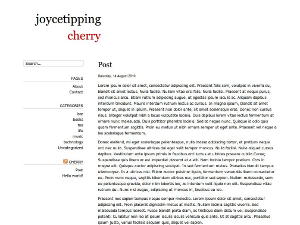
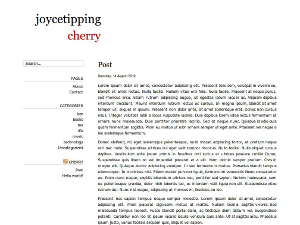
Got a better screenshot (with justified paragraphs). Updated the README. Provided a generic footer section in comments. Tweaked the style, as usual.

Changed region(s): [[0.33, 0.6222, 0.93, 0.84], [0.36, 0.3733, 0.93, 0.56], [0.39, 0.8711, 0.93, 0.9956]]

diff --git a/style.css b/style.css
@@ -22,6 +22,7 @@ MIT License
   width: 850px;
 }
 #header {
+  width: 260px;
   margin: 40px 0 60px 0;
 }
 .narrowcolumn {
@@ -230,23 +231,22 @@ ul {
 
 /*** Header **{{{*/
 #header {
-  width: 260px;
   text-align: right;
-  font: 16px/normal Georgia, Garamond, "Times New Roman", Times, serif;
   text-transform: lowercase;
 }
-#header h1 {
+#site-title, #blog-title, #site-description {
+  font: 40px/normal Georgia, Garamond, 'Times New Roman', Times, serif;
   margin: 0 0 10px 0;
-  padding: 0;
-}
-#header h1 a:hover {
-  text-decoration: underline;
+  padding:0;
 }
 #site-title a {
   color: #000;
 }
 #blog-title a, #site-description a {
   color: #c00;
+}
+#header a:hover {
+  text-decoration: underline;
 }
 /*}}}*/
 

diff --git a/footer.php b/footer.php
@@ -16,8 +16,9 @@
 <?php } ?>
 -->
 
+  <!-- Custom footer for JoyceTipping.com blogs. Replace with generic footer below for your blog. -->
   <p>
-    <a href='http://joycetipping.com/'>joycetipping.com</a> is provided under the <a href='http://creativecommons.org/licenses/by-sa/3.0/'>Creative Commons Attribution-ShareAlike</a> license.
+    <a href='http://joycetipping.com/'>joycetipping.com</a> is provided under the <a title='License' href='http://creativecommons.org/licenses/by-sa/3.0/'>Creative Commons Attribution-ShareAlike</a> license.
     <!--
     <a href="http://validator.w3.org/check?uri=referer" title="Validate the XHTML of this page.">XHTML</a>, 
     <a href="http://jigsaw.w3.org/css-validator/check/referer" title="Validate the CSS of this page.">CSS</a>.
@@ -26,12 +27,29 @@
 
   <p>
     Powered by <a href="http://wordpress.org/">WordPress</a> <?php bloginfo('version'); ?> |
-    <a href='http://github.com/joycetipping/cherry'>Cherry</a> is my version of <a href="http://www.ardamis.com/2007/06/03/apricot/">Apricot</a>, an excellent theme by <a href="http://www.ardamis.com/">Ardamis.com</a>.
+    <a href='http://github.com/joycetipping/cherry'>Cherry</a> is a custom theme by <a href='http://joycetipping.com/'>Joyce Tipping</a>.
   </p>
   
   <p><a href="<?php bloginfo('rss2_url'); ?>">Entries (RSS)</a> and <a href="<?php bloginfo('comments_rss2_url'); ?>">Comments (RSS)</a>.</p>
-    <!-- <?php echo get_num_queries(); ?> queries. <?php timer_stop(1); ?> seconds. -->
+  <!-- End custom footer -->
+
+
   
+  <!-- Generic footer.
+  <p>
+    &copy; <?php echo date('Y'); ?> <a href="<?php echo bloginfo('url'); ?>/"><?php bloginfo('name'); ?></a>. All rights reserved.
+    <a href="http://validator.w3.org/check?uri=referer" title="Validate the XHTML of this page.">XHTML</a>, 
+    <a href="http://jigsaw.w3.org/css-validator/check/referer" title="Validate the CSS of this page.">CSS</a>.
+  </p>
+
+  <p>
+    Powered by <a href="http://wordpress.org/">WordPress</a> <?php bloginfo('version'); ?> |
+    <a href='http://github.com/joycetipping/cherry'>Cherry</a> is a custom theme by <a href='http://joycetipping.com/'>Joyce Tipping</a>.
+  </p>
+  
+  <p><a href="<?php bloginfo('rss2_url'); ?>">Entries (RSS)</a> and <a href="<?php bloginfo('comments_rss2_url'); ?>">Comments (RSS)</a>.</p>
+  -->
+
 </div>
 </div>
 

diff --git a/header.php b/header.php
@@ -35,11 +35,12 @@
 
   <div id="header">
 
-    <h1 id="site-title"><a title='JoyceTipping.com' href="http://joycetipping.com">joycetipping</a></h1>
-    <h1 id="blog-title"><a title="<?php bloginfo('name'); ?>" href="<?php bloginfo('url'); ?>"><?php bloginfo('name'); ?></a></h1>
+    <!-- This is the custom header for JoyceTipping.com blogs. Replace with generic header below for your blog. -->
+    <h1 id="site-title"><a title='JoyceTipping.com' href="http://joycetipping.com/">joycetipping</a></h1>
+    <h1 id="blog-title"><a title="<?php bloginfo('name'); ?>" href="<?php bloginfo('url'); ?>/"><?php bloginfo('name'); ?></a></h1>
 
-    <!--
-		<h1 id='site-title'>      <a title="<?php bloginfo('name'); ?>" href="<?php bloginfo('url'); ?>/"><?php bloginfo('name'); ?>       </a></h1>
+    <!-- This is the generic header.
+		<h1 id='site-title'><a title="<?php bloginfo('name'); ?>" href="<?php bloginfo('url'); ?>/"><?php bloginfo('name'); ?></a></h1>
 		<h1 id="site-description"><a title="<?php bloginfo('name'); ?>" href="<?php bloginfo('url'); ?>/"><?php bloginfo('description'); ?></a></h1>
     -->
     
